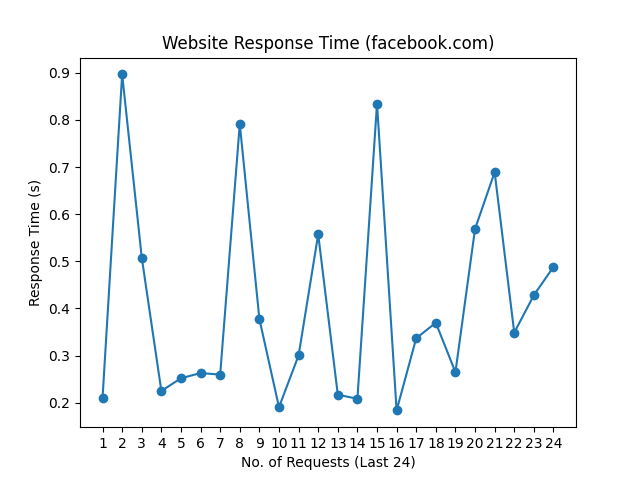
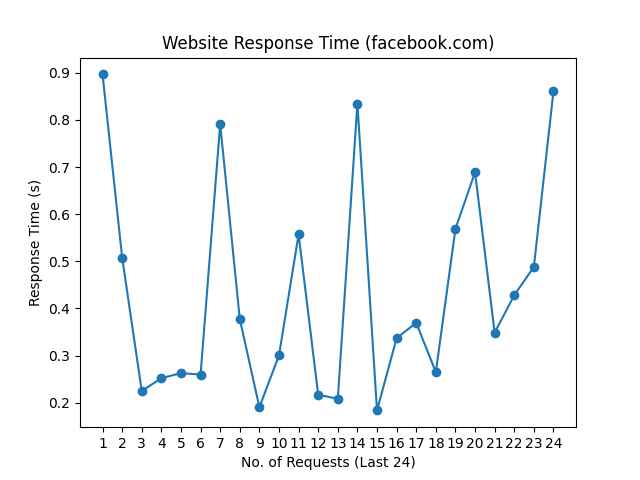
update README.md, history and graph

Changed region(s): [[0.1562, 0.125, 0.875, 0.875], [0.8438, 0.1875, 0.875, 0.4375]]

diff --git a/README.md b/README.md
@@ -1,10 +1,10 @@
 # Web Monitoring
 
-Last Checked: 21/02/2024 08:59
+Last Checked: 22/02/2024 08:59
 
 | Website | Response Time (s) | Status | Avg Uptime (%) |
 |---------|-------------------|--------|----------------|
 | www.thiswebsiteisdown.net | 0 <br> <img src="graph/thiswebsiteisdown.net.png" alt="Graph" width="200" height="200">  | ❌ Down | 0.00 |
-| www.netflix.com | 1.071597 <br> <img src="graph/netflix.com.png" alt="Graph" width="200" height="200">  | ✅ Up | 100.00 |
-| www.google.com | 0.128731 <br> <img src="graph/google.com.png" alt="Graph" width="200" height="200">  | ✅ Up | 100.00 |
-| www.facebook.com | 0.488108 <br> <img src="graph/facebook.com.png" alt="Graph" width="200" height="200">  | ✅ Up | 100.00 |
+| www.netflix.com | 1.064991 <br> <img src="graph/netflix.com.png" alt="Graph" width="200" height="200">  | ✅ Up | 100.00 |
+| www.google.com | 0.095887 <br> <img src="graph/google.com.png" alt="Graph" width="200" height="200">  | ✅ Up | 100.00 |
+| www.facebook.com | 0.860624 <br> <img src="graph/facebook.com.png" alt="Graph" width="200" height="200">  | ✅ Up | 100.00 |
